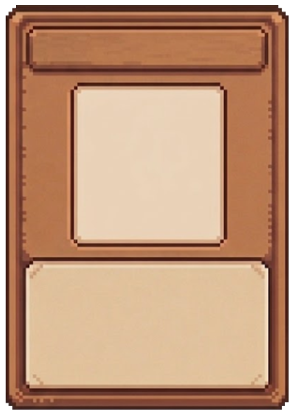
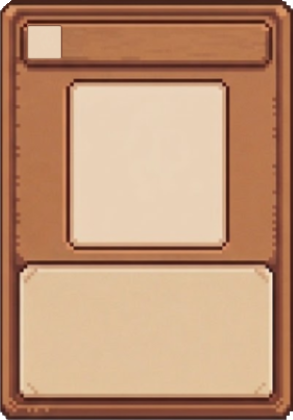
card score

diff --git a/Assets/KKH/Script/Player/PlayerManager.cs b/Assets/KKH/Script/Player/PlayerManager.cs
@@ -1,0 +1,19 @@
+using UnityEngine;
+
+public class PlayerManager : MonoBehaviour
+{
+    // Start is called once before the first execution of Update after the MonoBehaviour is created
+    void Start()
+    {
+        
+    }
+
+    // Update is called once per frame
+    void Update()
+    {
+        if (Input.GetMouseButtonDown(0))
+        {
+
+        }
+    }
+}
